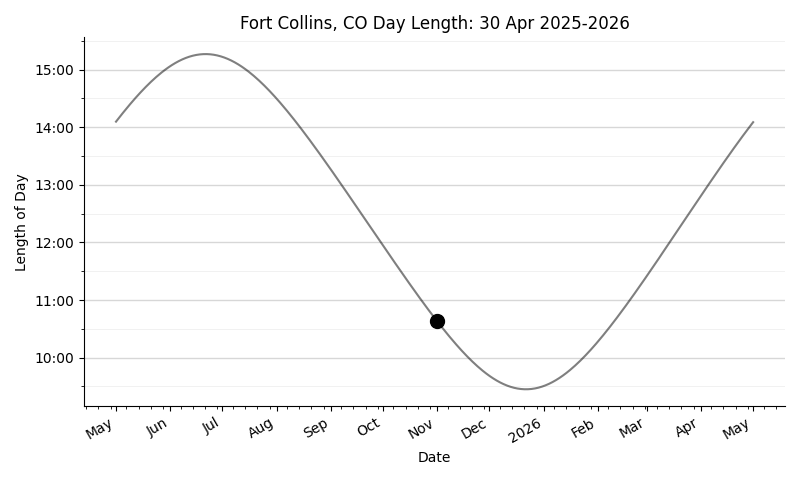
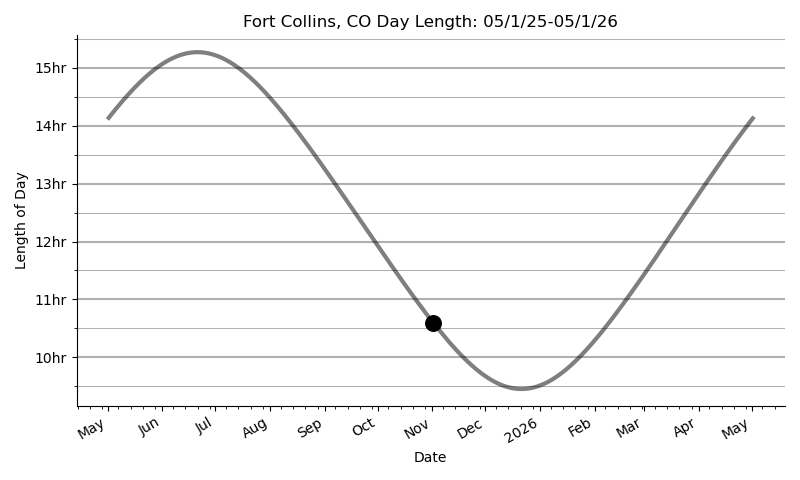
Update Figure

diff --git a/daylength.py b/daylength.py
@@ -44,12 +44,12 @@ def daylength(latitude,longitude,elevation,timezone_str,city_name):
     fig,ax = plt.subplots(figsize=(8,4.8), dpi = 100)
     plt.style.use('default')
     
-    ax.plot(df['Date'], df['Daylength'], alpha = .5,color='black')
+    ax.plot(df['Date'], df['Daylength'], linewidth = 3, alpha = .5,color='black')
     
     ax.scatter(df[df.Today==True]['Date'],
                df[df.Today==True]['Daylength'],
                color = 'black',
-               s = 100,
+               s = 125,
                zorder=5,
                label='Today')
     
@@ -68,7 +68,7 @@ def daylength(latitude,longitude,elevation,timezone_str,city_name):
     def hours_to_hhm(hours, pos):
         h = int(hours)
         m = int((hours - h) * 60)
-        return f'{h:02d}:{m:02d}'
+        return f'{h:02d}hr'
     
     hhm_formatter = ticker.FuncFormatter(hours_to_hhm)
     ax.yaxis.set_major_formatter(hhm_formatter)
@@ -77,11 +77,11 @@ def daylength(latitude,longitude,elevation,timezone_str,city_name):
     ax.yaxis.set_major_locator(ticker.MultipleLocator(1.0))
     ax.yaxis.set_minor_locator(ticker.MultipleLocator(0.5))
     
-    ax.grid(True, which='major', linestyle='-', linewidth=1, axis='y', alpha =0.5)
-    ax.grid(True, which='minor', linestyle='-', linewidth=0.5, axis='y', alpha = 0.25)
+    ax.grid(True, which='major', linestyle='-', linewidth=1.5, axis='y', alpha =1)
+    ax.grid(True, which='minor', linestyle='-', linewidth=.75, axis='y', alpha = 1)
     
     # 6. Finalize plot
-    ax.set_title(f'{city_name} Day Length: {df.Date.min().strftime("%d %b %Y")}-{df.Date.max().strftime("%Y")}')
+    ax.set_title(f'{city_name} Day Length: {df.Date.min().strftime("%m/%-d/%y")}-{df.Date.max().strftime("%m/%-d/%y")}')
     ax.set_xlabel('Date')
     ax.set_ylabel('Length of Day')
     ax.spines['top'].set_visible(False) 
